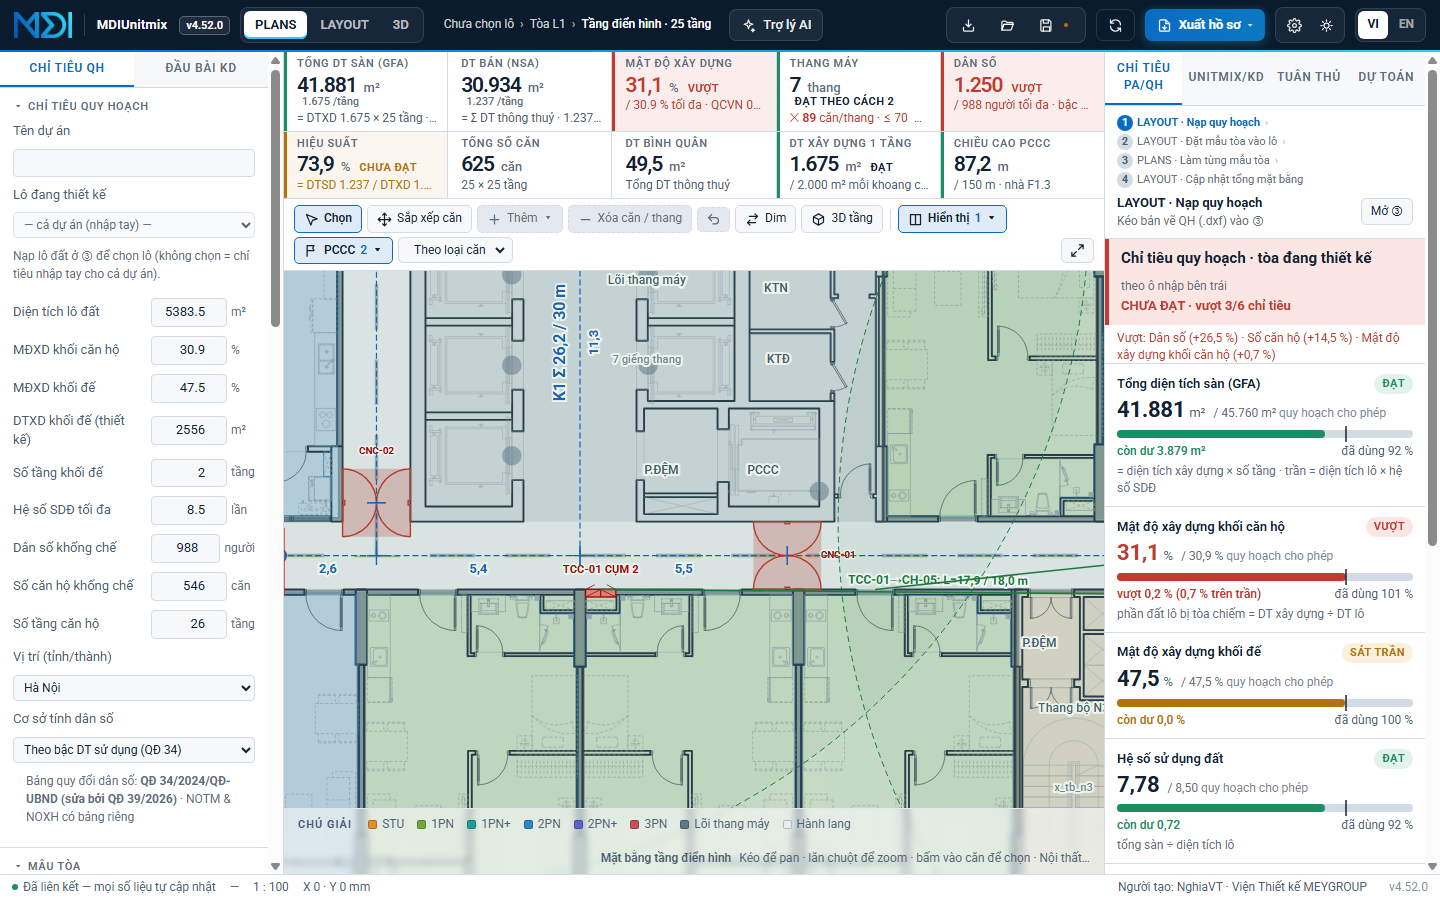
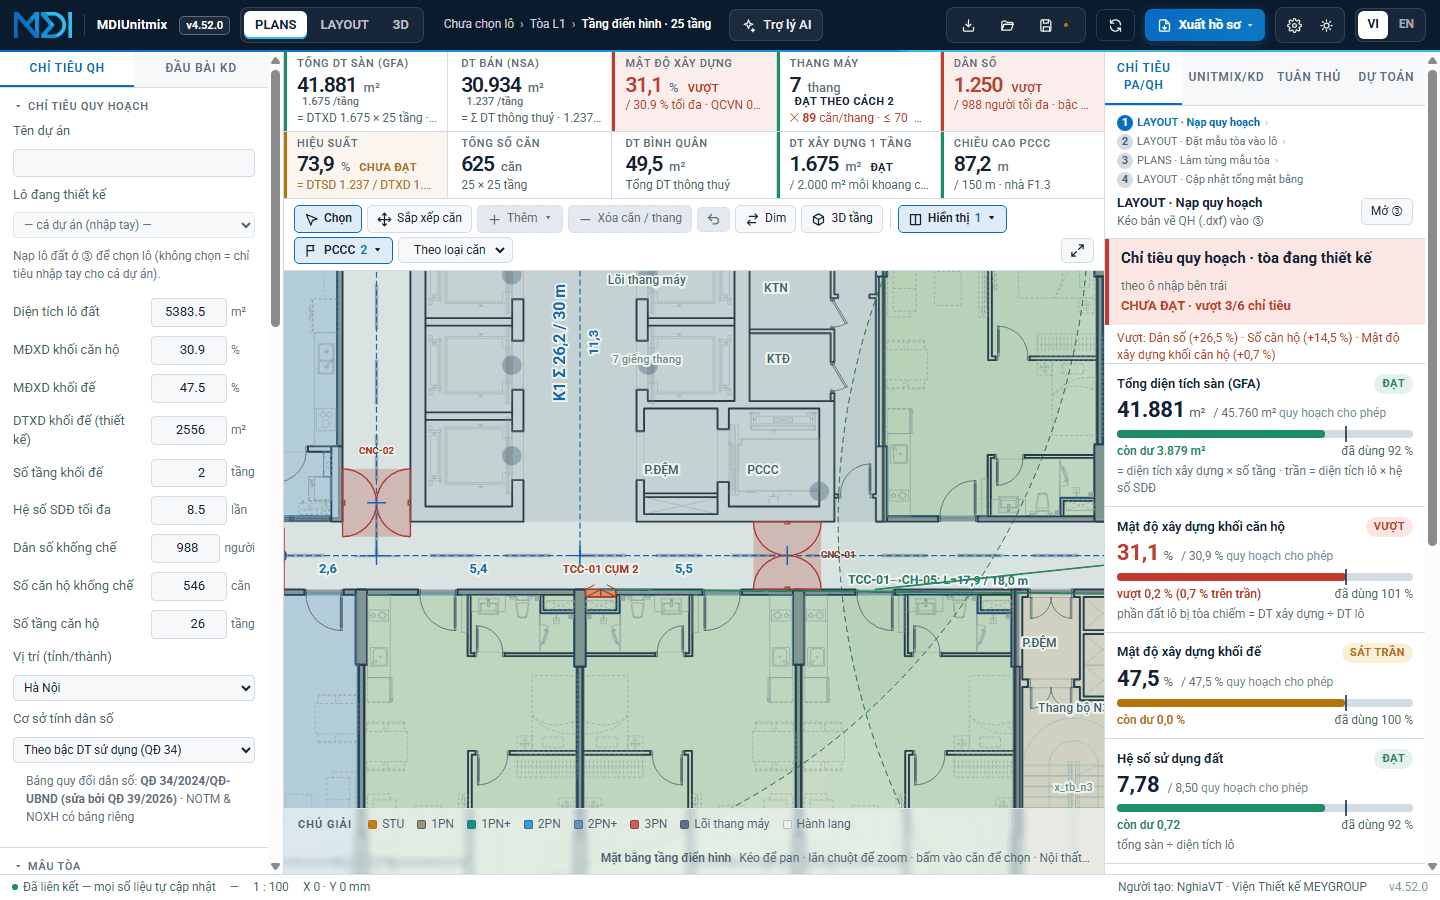
feat(pccc): xuất .dxf lớp MDI-PCCC-* như app cũ — tủ là INSERT block pccc-800x200 / 500x200 (thư viện tu-pccc.dwg), tường xây sau tủ, cửa hai cánh + nhãn; ảnh so sánh cũ / mới cu-moi-*.png (Z3 · T1 · V1 · L1)

diff --git a/web/src/xuat/xuatCad.ts b/web/src/xuat/xuatCad.ts
@@ -12,6 +12,8 @@
 import type { CongNangO, Diem, ThuVien } from '../tinh/kieu';
 import { canDangDung, congNangTai, viTriCan, type BoCuc, type NetVe, type ToaCoMat } from '../tinh/matBang';
 import { laBienThe } from '../tinh/stretch';
+import { KHOI_TCC, khoiTu, nhanTu, tenKhoiTu, type TuPCCC } from '../tinh/tuHongNuoc';
+import { khoiCNC } from '../tinh/cuaNganChay';
 
 export const LE_CLIP_MM = 1200;
 /** Thư mục thư viện XREF mặc định, tương đối so với thư mục đặt bản vẽ ghép. */
@@ -30,7 +32,13 @@ export type DuLieuXuat = {
   hinh: Map<string, NetVe[]>;
   /** Hình học lõi (mm cục bộ) theo tên block. */
   loi?: Map<string, { paths: NetVe[] }>;
+  /** Tủ PCCC + cửa ngăn cháy hành lang đang thấy trên mặt bằng (lớp PCCC màn Tầng) — chỉ `.dxf`. */
+  pccc?: { tu: TuPCCC[]; cua: { so: string; p: Diem; huong: Diem; w: number; bu: number[] | null }[] };
 };
+/** Lớp PCCC như app cũ (shell.src.html ~16243): tủ (viền + nhãn), chi tiết block tủ, tường xây sau tủ, cửa ngăn cháy hành lang. */
+export const LOP_PCCC: [string, number][] = [['MDI-PCCC-TCC', 1], ['MDI-PCCC-TCC-CT', 1], ['MDI-PCCC-TUONG', 8], ['MDI-PCCC-CNC', 1]];
+/** Tên BLOCK tủ trong DXF (block CAD gốc data/dwg/tu-pccc.dwg: pccc-800x200 / pccc-500x200). */
+const khoiTuTen = (ten: string) => ten.toUpperCase();
 
 const rad = (d: number) => (d * Math.PI) / 180;
 /** Bỏ dấu, chỉ giữ ASCII in được: tên tệp và chú thích. */
@@ -272,6 +280,7 @@ export function taoDxf(d: DuLieuXuat): string {
   const lops = new Map<string, number>([['MDI-BAO', 1], ['MDI-HANHLANG', 30], ['MDI-NHAN', 2], ['MDI-LOI', 8], [LOP_NHAN_CAN, 3]]);
   const oc = oCongNang(d);
   if (oc.length) lops.set(LOP_CONG_NANG, 5);
+  if (d.pccc) for (const [l, c] of LOP_PCCC) lops.set(l, c);
   for (const [l, c] of Object.values(LOP_THEO_NET)) lops.set(l, c);
   let s = nhom([0, 'SECTION'], [2, 'HEADER'], [9, '$ACADVER'], [1, 'AC1009'], [9, '$INSUNITS'], [70, 4], [9, '$MEASUREMENT'], [70, 1], [0, 'ENDSEC']);
   s += nhom([0, 'SECTION'], [2, 'TABLES'], [0, 'TABLE'], [2, 'LAYER'], [70, lops.size]);
@@ -289,6 +298,16 @@ export function taoDxf(d: DuLieuXuat): string {
       if (!lop || n.pts.length < 2) continue;
       s += polyDxf(lop, n.pts.map(([x, y]): Diem => [x * it.rong, y * it.sau]), false);
     }
+    s += nhom([0, 'ENDBLK'], [8, '0']);
+  }
+  // tủ PCCC: block CAD gốc (thân từng hộp + nét chéo + cánh mở), y = 0 mặt tường hành lang, y < 0 vào trong tường
+  const khoiDung = new Set((d.pccc?.tu ?? []).map((x) => tenKhoiTu(x.loai)));
+  for (const ten of khoiDung) {
+    const b = KHOI_TCC[ten];
+    if (!b) continue;
+    s += nhom([0, 'BLOCK'], [8, '0'], [2, khoiTuTen(ten)], [70, 0], ...diemDxf([0, 0]));
+    for (const q of b.than) s += polyDxf('MDI-PCCC-TCC-CT', q, true);
+    for (const q of b.net) s += polyDxf('MDI-PCCC-TCC-CT', q, false);
     s += nhom([0, 'ENDBLK'], [8, '0']);
   }
   s += nhom([0, 'ENDSEC']);
@@ -317,6 +336,20 @@ export function taoDxf(d: DuLieuXuat): string {
     s += polyDxf(LOP_CONG_NANG, o.goc, true) + polyDxf(LOP_CONG_NANG, [o.goc[0], o.goc[2]], false) + polyDxf(LOP_CONG_NANG, [o.goc[1], o.goc[3]], false);
     s += textDxf(LOP_CONG_NANG, o.x, o.y + CAO_CHU_NHAN_MM * 0.7, o.ten);
     s += textDxf(LOP_CONG_NANG, o.x, o.y - CAO_CHU_NHAN_MM * 0.7, o.dt);
+  }
+  for (const x of d.pccc?.tu ?? []) {
+    // INSERT: trục x block = hướng tường (huong), trục y block = −vao (ra hành lang); lật y khi hai trục không theo chiều thuận
+    const h = x.huong, v = x.vao, lat = (-v[0]) * -h[1] + (-v[1]) * h[0] < 0 ? -1 : 1;
+    if (KHOI_TCC[tenKhoiTu(x.loai)]) s += nhom([0, 'INSERT'], [8, 'MDI-PCCC-TCC'], [2, khoiTuTen(tenKhoiTu(x.loai))], ...diemDxf(x.W), [41, 1], [42, lat], [50, +((Math.atan2(h[1], h[0]) * 180) / Math.PI).toFixed(4)]);
+    const k = khoiTu(x);
+    if (k.tuong) s += polyDxf('MDI-PCCC-TUONG', k.tuong, true);
+    const nh = [x.W[0] - v[0] * 520, x.W[1] - v[1] * 520];
+    s += nhom([0, 'TEXT'], [8, 'MDI-PCCC-TCC'], ...diemDxf(nh as Diem), [40, 300], [1, asciiHoa(nhanTu(x))], [72, 1], [11, +nh[0].toFixed(4)], [21, +nh[1].toFixed(4)], [31, 0], [73, 2]);
+  }
+  for (const c of d.pccc?.cua ?? []) {
+    const k = khoiCNC(c);
+    for (const q of k.net) s += polyDxf('MDI-PCCC-CNC', q, false);
+    s += nhom([0, 'TEXT'], [8, 'MDI-PCCC-CNC'], ...diemDxf(k.nhan), [40, 260], [1, asciiHoa(c.so)], [72, 1], [11, +k.nhan[0].toFixed(4)], [21, +k.nhan[1].toFixed(4)], [31, 0], [73, 2]);
   }
   s += nhom([0, 'ENDSEC'], [0, 'EOF']);
   return s;

diff --git a/web/src/man/HopXuatCad.tsx b/web/src/man/HopXuatCad.tsx
@@ -11,6 +11,7 @@ import type { ToaVe } from '../ve/MatBangTang';
 import { asciiHoa, danhSachChen, taoDxf, taoScr, tenTepAn, THU_VIEN_XREF_MAC_DINH } from '../xuat/xuatCad';
 import { chuKyMatBang } from '../tinh/loiThang';
 import { fmtSo } from '../ui/so';
+import { pcccDangVe } from '../ve/LopPCCC';
 
 /** Phạm vi xuất: bố cục chung, một tầng có bố cục riêng, hoặc mỗi nhóm tầng một tệp. */
 type PhamVi = 'chung' | 'tat' | number;
@@ -63,7 +64,7 @@ export function HopXuatCad({ toa, mau, mauTang, tv, ten, dong }: Props) {
   const xuat = (kieu: 'scr' | 'dxf') => dsTang().forEach((tg, i) => setTimeout(() => {
     const d = du(tg), ten1 = tg === null && pv === 'chung' ? ten0 : duoiTen(tg);
     if (kieu === 'scr') taiVe(taoScr({ ...d, ten: ten1 }), `${ten1}.scr`, 'text/plain;charset=us-ascii');
-    else taiVe(taoDxf({ ...d, ten: ten1 }), `${ten1}.dxf`, 'application/dxf');
+    else taiVe(taoDxf({ ...d, ten: ten1, pccc: tg === null ? pcccDangVe(toa.id) : undefined }), `${ten1}.dxf`, 'application/dxf');
   }, i * 300)); // tải nhiều tệp: cách nhau để trình duyệt không chặn
   return (
     <LopNoi>

diff --git a/web/src/ve/LopPCCC.tsx b/web/src/ve/LopPCCC.tsx
@@ -346,5 +346,12 @@ export function ChuGiaiPCCC({ kq }: { kq: KetQuaPCCCTang | null }) {
   );
 }
 
+/** Tủ / cửa ngăn cháy đang thấy trên mặt bằng tòa (kết quả gần nhất, theo lớp đang bật) — cho xuất `.dxf` (như app cũ: lớp MDI-PCCC-*). */
+export function pcccDangVe(toaId: string) {
+  const kq = cuoiTheoToa.get(toaId);
+  if (!kq || !(cai.tu || cai.cnc)) return undefined;
+  return { tu: cai.tu ? kq.tu.tu : [], cua: cai.cnc ? kq.hanhLang.cua : [] };
+}
+
 /** Bộ tủ tay hiện tại (lần sửa đầu chép bộ tự đặt) — cho nút ngoài lớp. */
 export const tuTayHienTai = (kq: KetQuaPCCCTang, toa: ToaDat) => tuTayTuKq(kq.tu, toa.tuPCCCTay);
